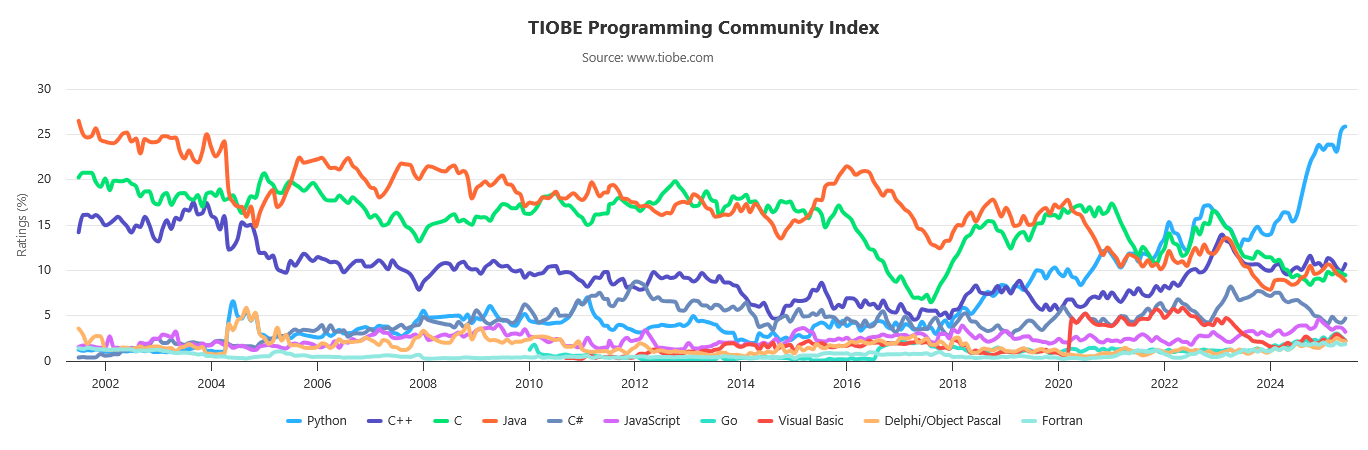
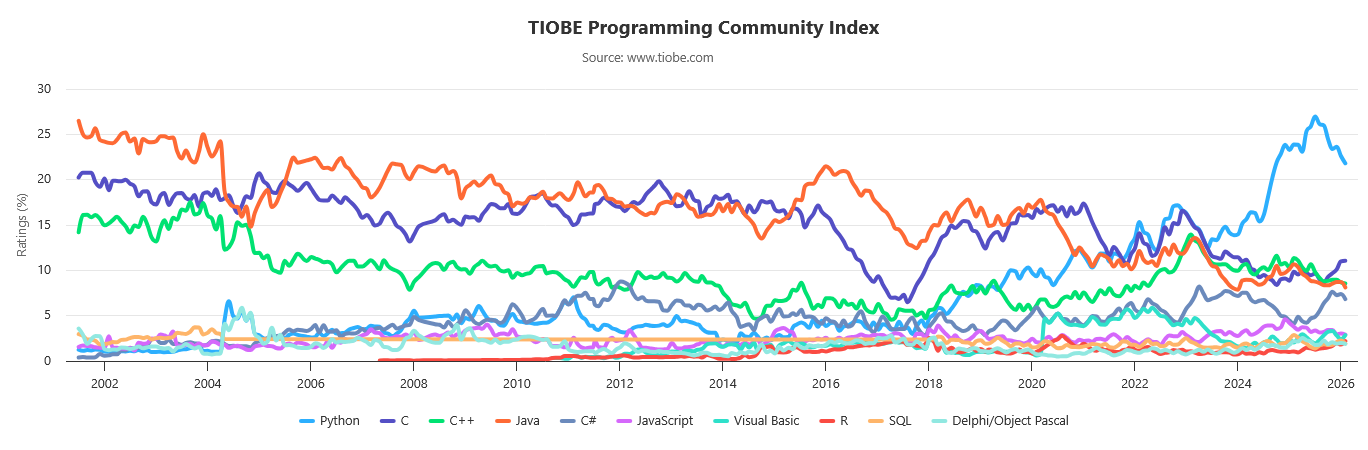
revisão da primeira aula

diff --git a/slides/layouts/frontcover.vue b/slides/layouts/frontcover.vue
@@ -13,7 +13,7 @@
       
     </div>
     <div class="bg-[#002f53] text-white flex flex-col justify-end items-start px-6 pb-4">
-      <p class="text-sm text-gray-400 mb-1">2025.2</p>
+      <p class="text-sm text-gray-400 mb-1">2026.1</p>
       <p class="text-sm text-gray-400 mb-1">Prof. Fabricio Santana</p>
       <p class="text-sm text-gray-400 mb-1">fabricio.santana@idp.edu.br</p>
       <p class="text-sm text-gray-400 mb-1">www.linkedin.com/in/fabriciofsantana</p>

diff --git a/slides/layouts/default.vue b/slides/layouts/default.vue
@@ -18,7 +18,7 @@
       </div>
       <div>Ciência da Computação - IDP</div>
       <div>Programação Orientada a Objetos com Java</div>      
-      <div>2025.2</div>
+      <div>2026.1</div>
       <div>Prof. Fabricio Santana</div>
     </footer>
   </div>

diff --git a/slides/01-introduction.md b/slides/01-introduction.md
@@ -89,7 +89,7 @@ layout: default
 ## Quais são as perspectivas de carreira ao concluir o curso?
 
 <FigureWithCaption 
-  src="https://media.licdn.com/dms/image/v2/C4D12AQGKOh8gdPjzuQ/article-cover_image-shrink_720_1280/article-cover_image-shrink_720_1280/0/1629419926607?e=1757548800&v=beta&t=Do4wCl156U7ijeI5V6Y1Havs0uLay8Ejg_MVdSpxasg" 
+  src="images/Alice.jpeg" 
   alt="Alice"
   link="https://www.linkedin.com/pulse/se-voc%C3%AA-n%C3%A3o-sabe-para-onde-ir-qualquer-caminho-serve-pablo-berriel/"
   v-click
@@ -160,7 +160,7 @@ A disciplina adota a linguagem de programação **Java**
 
   <div style="width: 100%; max-height: 280px; overflow-y: scroll; border: none;">
     <iframe 
-      src="https://flo.uri.sh/visualisation/19114866/embed?auto=1"
+      src="https://flo.uri.sh/visualisation/24825595/embed?auto=1"
       style="width: 100%; height: 1900px; border: none;"
       allowfullscreen
     ></iframe>
@@ -169,10 +169,10 @@ A disciplina adota a linguagem de programação **Java**
   <div class="mt-4 text-sm text-center text-gray-600">
     Fonte: 
     <a 
-      href="https://spectrum.ieee.org/top-programming-languages-2024" 
+      href="https://spectrum.ieee.org/top-programming-languages-2025" 
       target="_blank" 
       class="underline text-blue-600">
-      https://spectrum.ieee.org/top-programming-languages-2024
+      https://spectrum.ieee.org/top-programming-languages-2025
     </a>
   </div>
 </div>
@@ -205,7 +205,22 @@ A disciplina adota a linguagem de programação **Java**
 
 ## Como ensinar/aprender programação hoje?
 
-<div v-click>
+<div>
+
+<FigureWithCaption 
+  src="images/stack.png" 
+  alt="Stack Overflow is almost dead"
+  link="https://blog.pragmaticengineer.com/stack-overflow-is-almost-dead/"
+/>
+
+</div>
+
+
+---
+
+## Como ensinar/aprender programação hoje?
+
+<div>
   <div class="grid grid-cols-3 gap-4 mt-4 text-sm text-justify">
     <!-- ChatGPT -->
     <div class="bg-blue-100 rounded shadow">
@@ -303,6 +318,11 @@ A disciplina adota a linguagem de programação **Java**
 
 </div>
 
+<ReferenceLink
+    link=""
+    reference="Plano de Ensino da Disciplina"
+/>
+
 --- 
 
 ## Qual objetivo da disciplina?
@@ -312,6 +332,11 @@ A disciplina adota a linguagem de programação **Java**
 - Ao final da disciplina, os estudantes serão capazes de aplicar os princípios, fundamentos e práticas da Programação Orientada a Objetos (POO) no desenvolvimento de sistemas de software, utilizando linguagens e frameworks apropriados para criar soluções modulares, reutilizáveis, e de fácil manutenção.
 
 </div>
+
+<ReferenceLink
+    link=""
+    reference="Plano de Ensino da Disciplina"
+/>
 
 ---
 
@@ -331,25 +356,36 @@ A disciplina adota a linguagem de programação **Java**
 
 </div>
 
+<ReferenceLink
+    link=""
+    reference="Plano de Ensino da Disciplina"
+/>
+
+
 ---
 
 ## Como o aprendizado será avaliado?
 
 <div class="mt-4">
-- 8 exercícios práticos: 0,0 a 0,5 cada um (NE1-8)
-- 8 resumos de leituras: 0,0 a 0,25 cada um (NR1-8)
-- 1 Seminário: 0,0 a 3,0 (NS)
-- 1 Projeto: 0,0 a 3,0 (NPr)
-- 2 Provas: 0,0 a 4,0 cada uma (NP1 e NP2)
 
-- Nota da Avaliação 1: NE1 + NE2 + NE3 + NE4 + NR1 + NR2 + NR3 + NR4 + NS + NP1
-- Nota da Avaliação 2: NE5 + NE6 + NE7 + NE8 + NR5 + NR6 + NR7 + NR8 + NPr + NP2
-
-- Ponto adicional por participação nas discussões: 0,0 a 0,5 em cada AV, não cumulativo
-  
-- A nota máxima de cada uma das avaliações será 10,0
+* 10 exercícios práticos de programação: 0,0 a 0,4 cada um (NE1-10)
+* 10 resumos de leituras: 0,0 a 0,2 cada um (NR1-10)
+* 10 estudos dirigidos via prompt: 0,0 a 0,2 (NE1-10)
+* 10 questionários: 0,0 a 0,2 (NQ1-10)
+* 2 Provas Teóricas: 0,0 a 3,0 (NT1 e NT2)
+* 2 Provas Práticas: 0,0 a 2,0 cada uma (NP1 e NP2)
+* Nota da Avaliação 1: NE1-5 + NR1-5 + NE1-5 + NQ1-5 + NT1 + NP1
+* Nota da Avaliação 2: NE6-10 + NR6-10 + NE6-10 + NQ6-10 + NT2 + NP2
+* Ponto adicional por participação nas discussões: 0,0 a 0,5 em cada AV, não cumulativo
+* A nota máxima de cada uma das avaliações será 10,0
 
 </div>
+
+<ReferenceLink
+    link=""
+    reference="Plano de Ensino da Disciplina"
+/>
+
 
 ---
 
@@ -370,7 +406,7 @@ A disciplina adota a linguagem de programação **Java**
   - [GitHub](https://github.com/)
   - [SDKMAN](https://sdkman.io/) (pra quem precisa trabalhar com várias versões do JDK)
   - [Junit 5](https://junit.org/junit5/)
-  - [Maven](https://maven.apache.org/)
+  - [Maven](https://maven.apache.org/) (opcional)
   
 </div>
 
